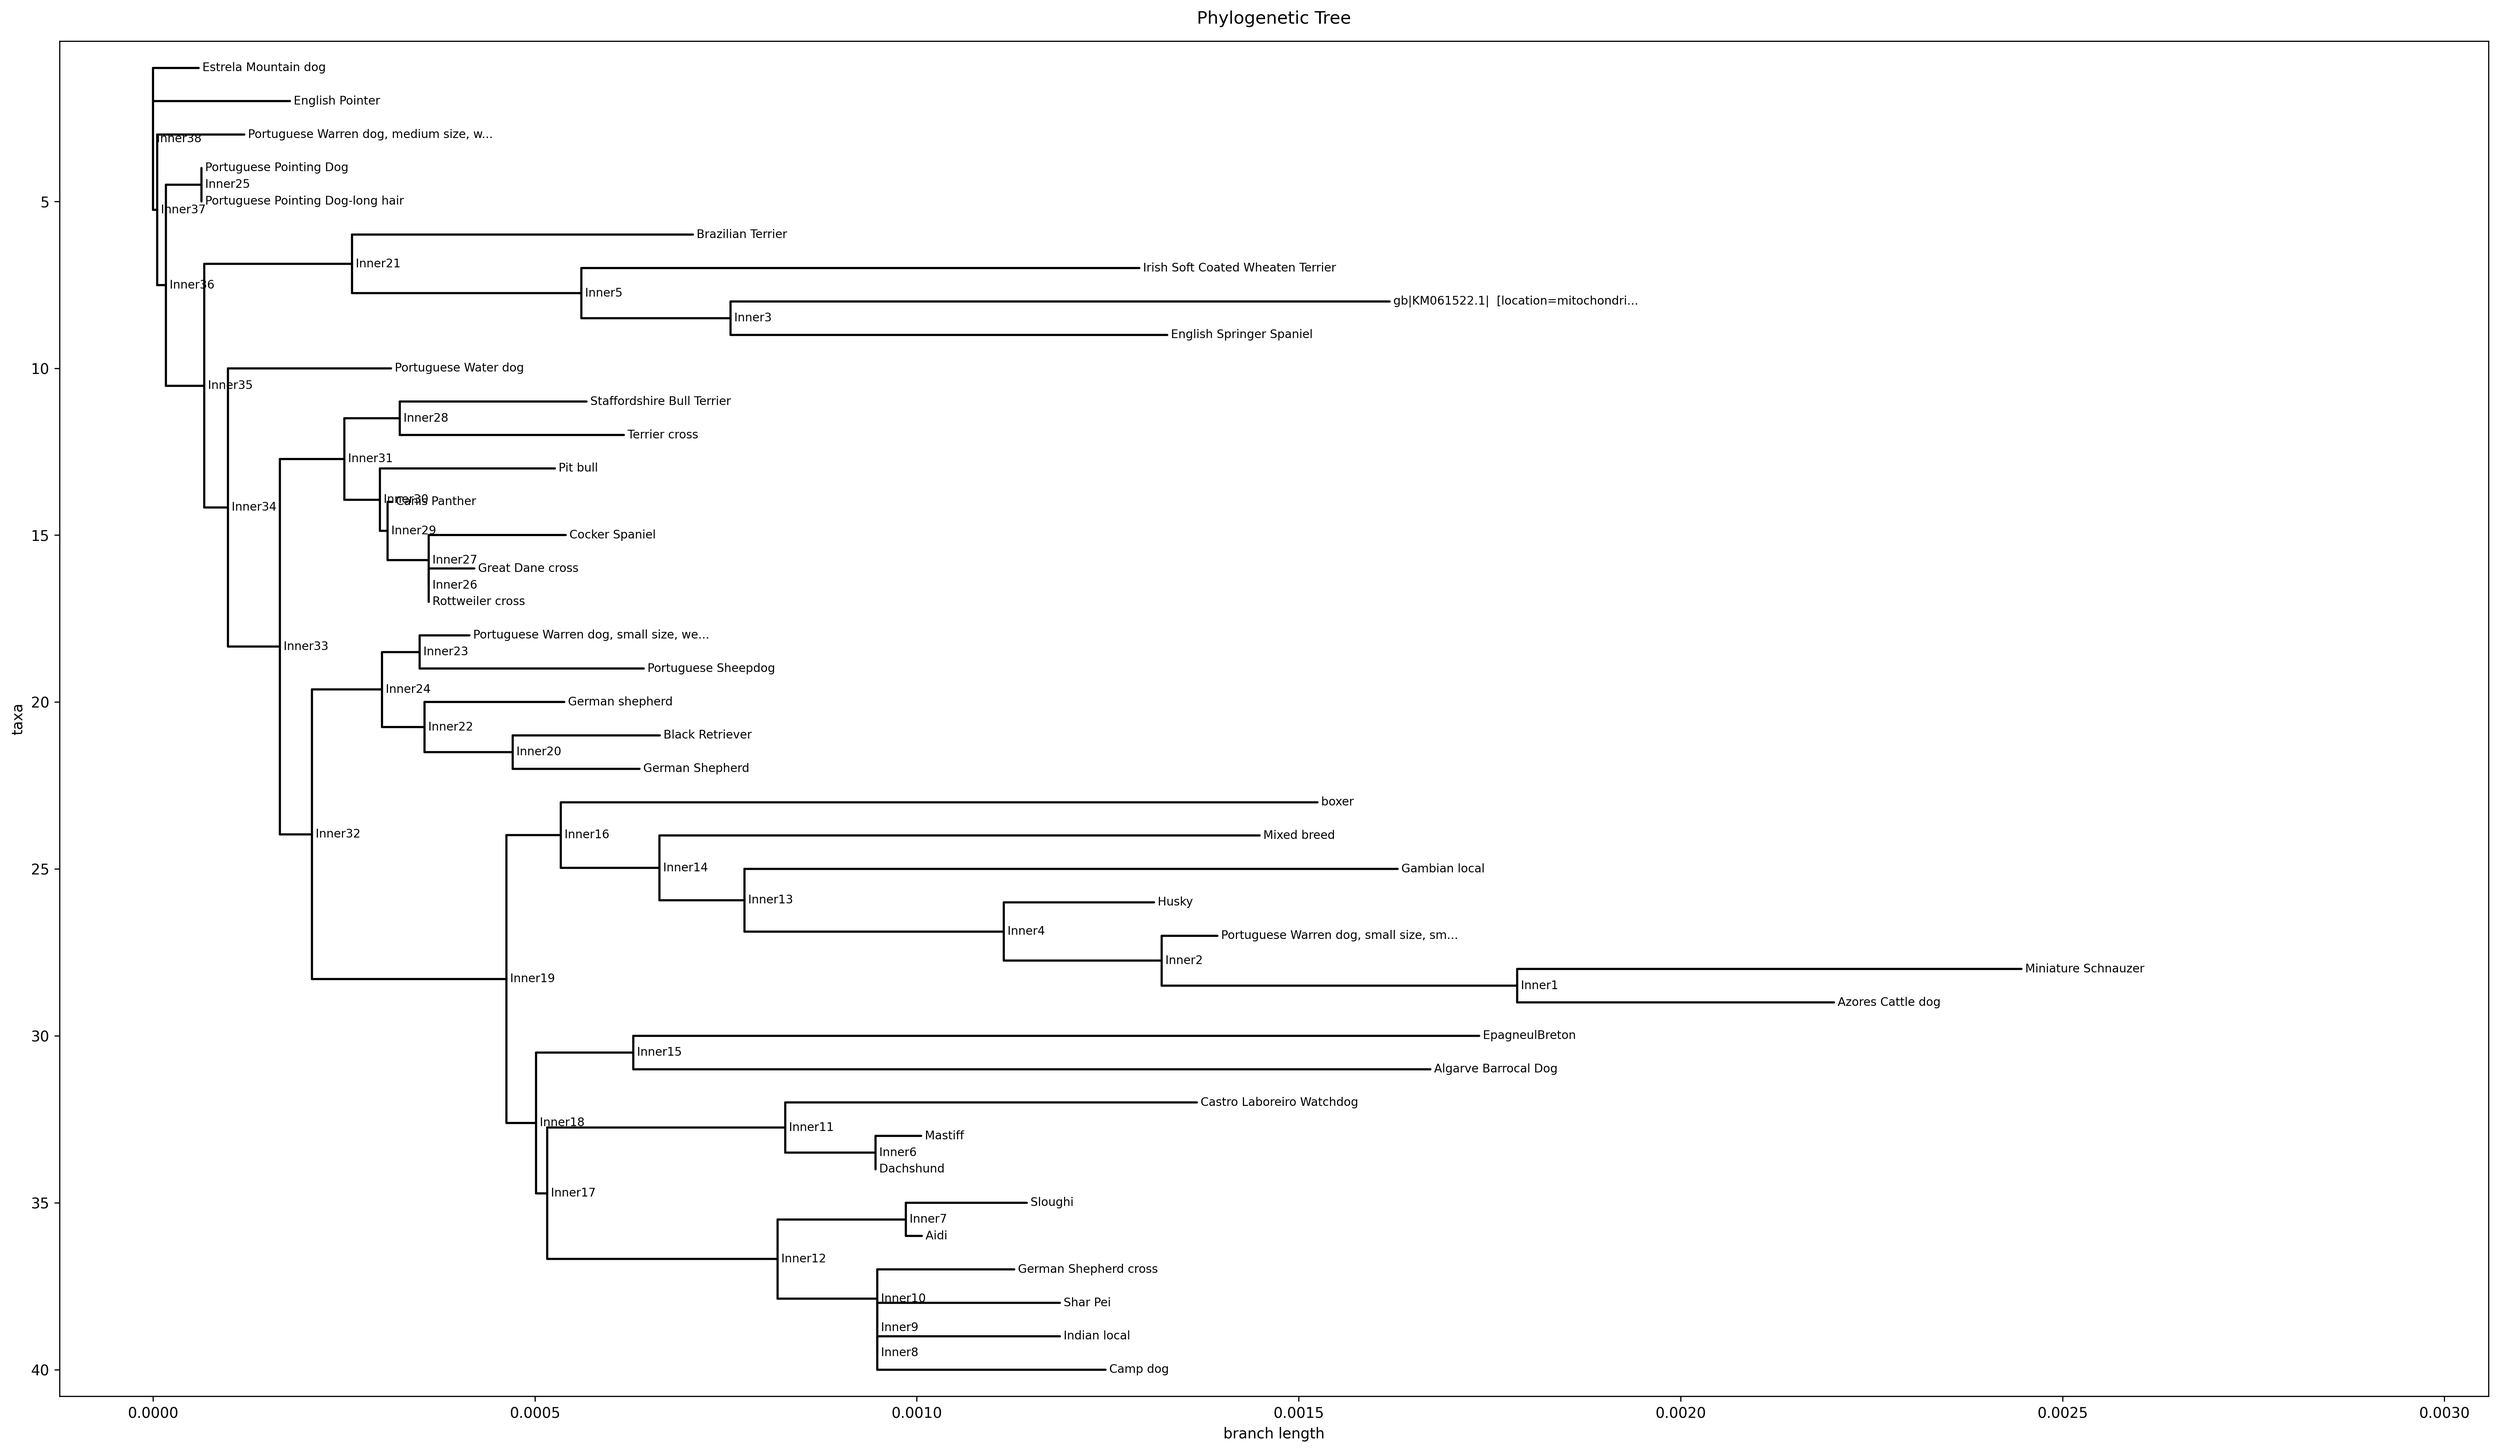
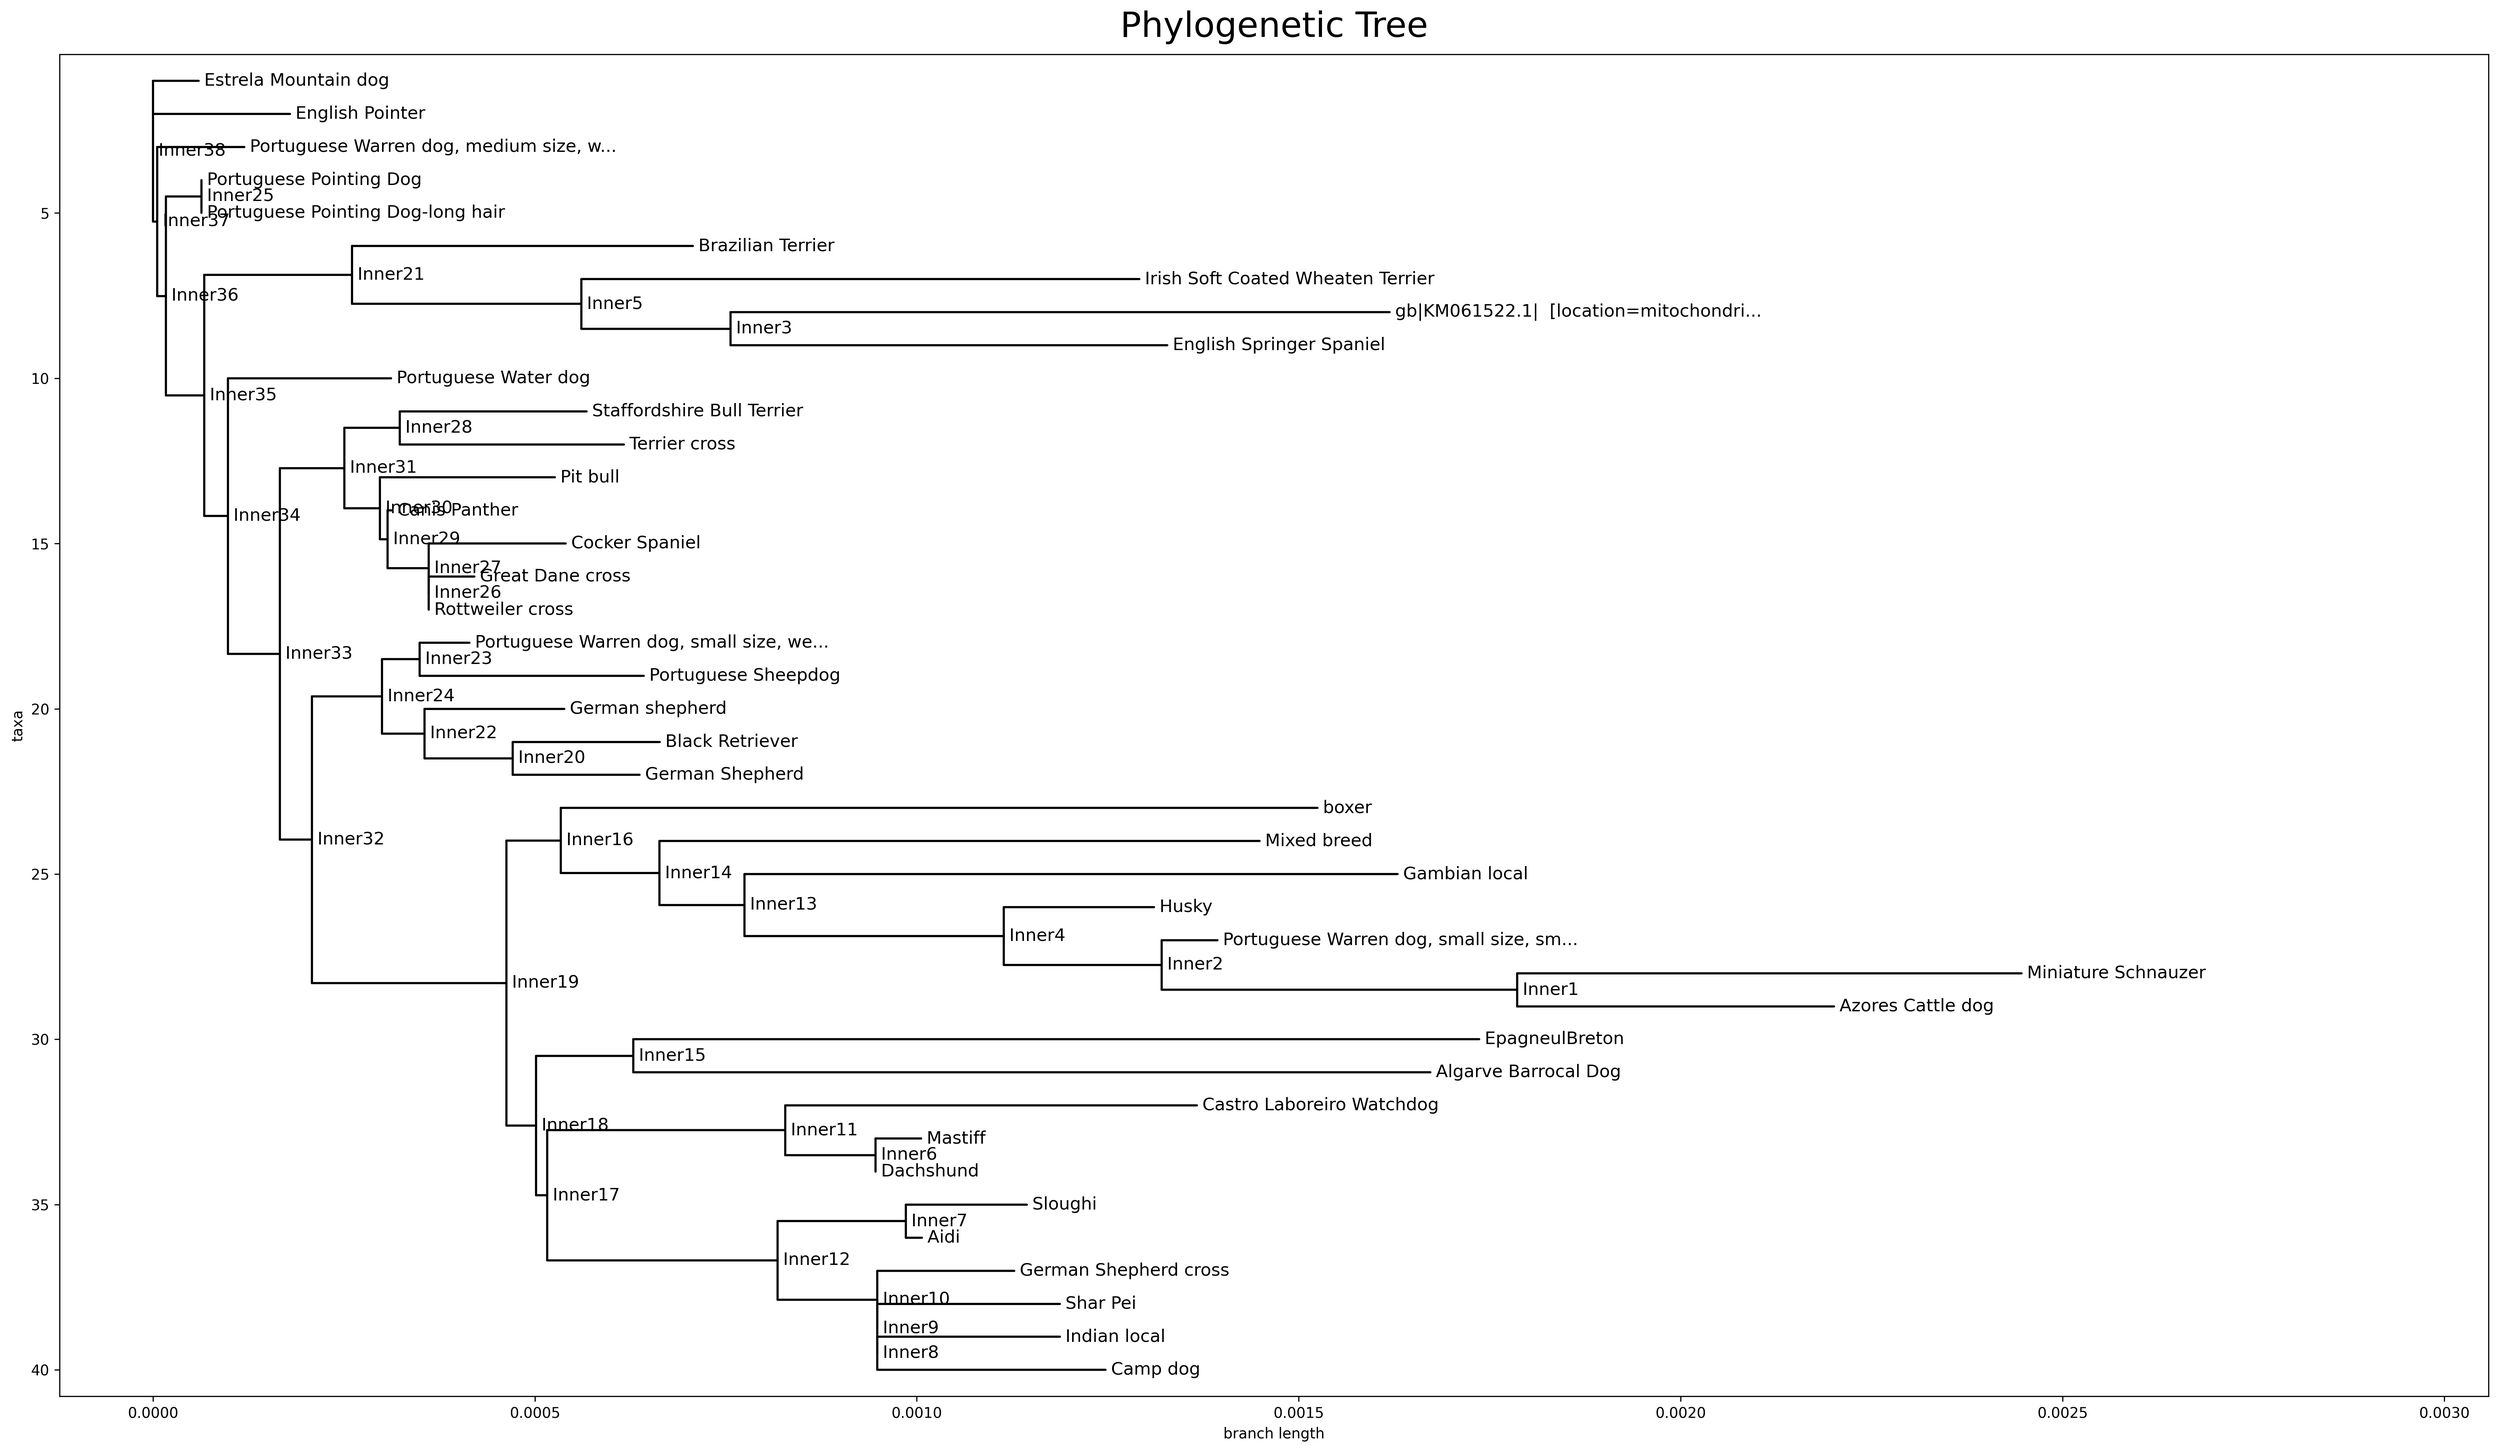
formatting

diff --git a/main_code.py b/main_code.py
@@ -143,12 +143,12 @@ def plot_tree_image(tree, output_dir):
     tree.ladderize()
     Phylo.draw(tree, axes=ax, do_show=False, show_confidence=False)
 
-    label_fontsize = 6 if num_tips > 80 else 8
+    label_fontsize = 10 if num_tips > 80 else 12
     for text in ax.texts:
         text.set_fontsize(label_fontsize)
 
     # Adding title and adjusting layout to prevent overlap.
-    ax.set_title("Phylogenetic Tree", fontsize=12, pad=12)
+    ax.set_title("Phylogenetic Tree", fontsize=24, pad=12)
     plt.tight_layout()
     plt.savefig(image_path, dpi=300, bbox_inches='tight')
     plt.close(fig)

diff --git a/Results/README.md b/Results/README.md
@@ -1,5 +1,8 @@
 The results folder will output 2 files showing the user:
-The closest dog breed (and % identity)
-The top 10 closest dog breeds (% and p-values)
 
-A png image of a phylogenetic tree
+1 - report.txt
+The closest dog breed (and % identity and p-vale)
+The top 5 closest dog breeds (% and p-values)
+
+2. phylogenetic_tree.png
+A png image of a phylogenetic tree plotted from the sequence analysis
